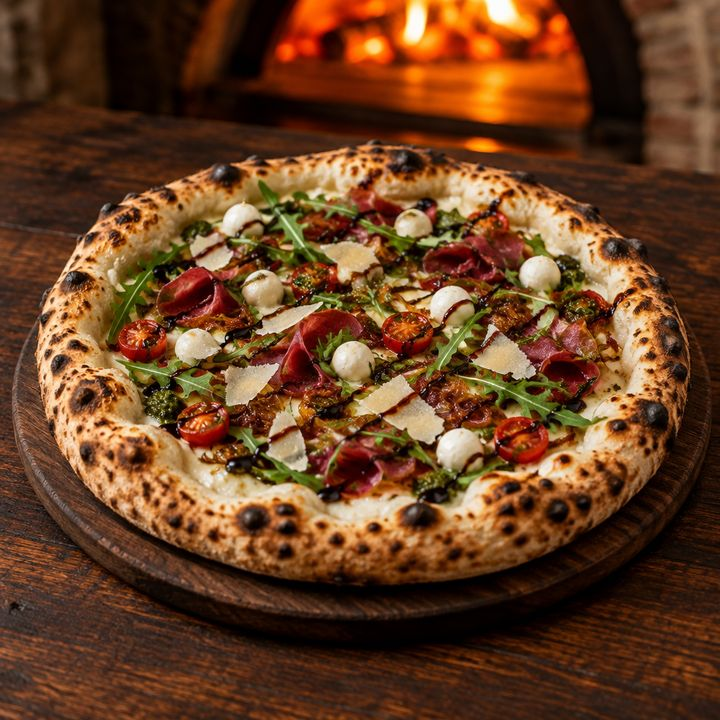
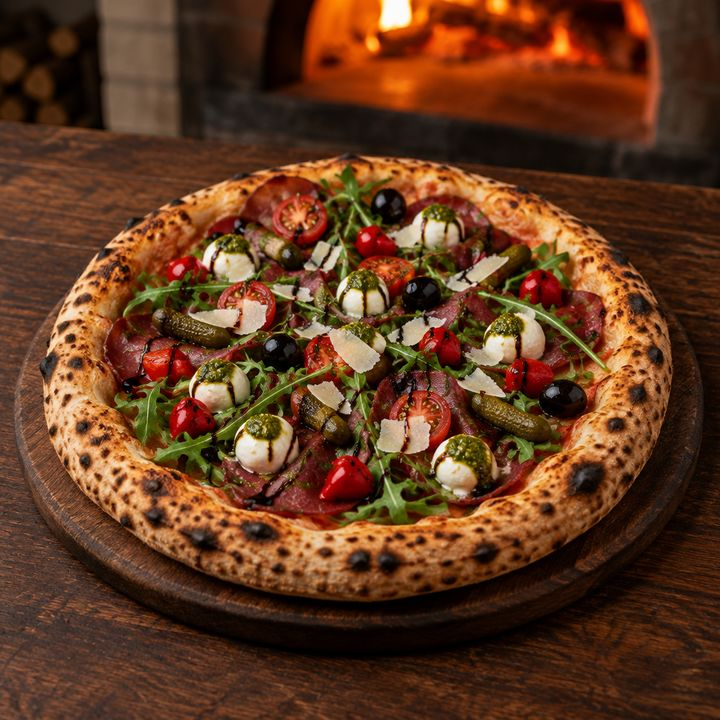
Arzata : Bresaola fidèle à la vraie recette
Claude-Session: https://claude.ai/code/session_01KDE5kQyViZ7WNt4evbjnNg

diff --git a/entreprise/vente/demos/arzata/site/data.js b/entreprise/vente/demos/arzata/site/data.js
@@ -35,7 +35,7 @@
    ['Pizza Crispy', 'Crème, mozzarella, poulet croustillant, sauce fromagère, tomates cerises, olives', [1090, 2590], []],
    ['Saumon', 'Crème, mozzarella, saumon fumé, boursin, oignons confits, citron, olives, roquette', [1190, 2690], ['mer']],
    ['Océane', 'Crème, mozzarella, crevettes, saumon fumé, persillade, citron, olives', [1290, 2890], ['mer']],
-   ['Bresaola', 'Crème, mozzarella, bresaola, roquette, tomates cerises, parmesan, perles de mozzarella, pesto, crème balsamique, oignons caramélisés', [1990, 3190], ['chef']],
+   ['Bresaola', 'Mozzarella, bresaola, roquette, tomates cerises, cornichons, olives noires, petits piments doux, perles de mozzarella au pesto, parmesan, crème balsamique', [1990, 3190], ['chef']],
    ['Pêcheur', 'Crème, mozzarella, calamars, crevettes, moules, pesto, citron, olives', [1990, 3190], ['mer', 'chef']]
   ].forEach(function (x, i) { P.push({ id: 'c' + i, cat: 'Base crème', nom: x[0], desc: x[1], img: 'img3d/c' + i + '.jpg', tailles: T(x[2]), extra: SUPP, tags: x[3], moitie: 'creme' }); });
   [['Poulet', 'Poulet, pommes de terre, poivrons, fromage fondant', 600, 0, []], ['Viande', 'Viande hachée, pommes de terre, poivrons, oignons, fromage fondant', 650, 1, []],

diff --git a/entreprise/SUIVI.md b/entreprise/SUIVI.md
@@ -126,3 +126,4 @@ Solde au 2026-10-14 : **3,39 crédits** (après Arzata : 35 images ≈ 9,25, ima
 - **2026-10-14** : prix Plateforme aligné partout à **dès 300 000 DA** + « service client 24h/24, 7j/7 (12 mois) » : site `site-prod` et `site-dzign` (carte FR/AR, calculateur, données Google), `OFFRE.md`, `VENTE.md`, `campagne/posts.html`. Nouveau paquet complet `site-dzign-vite.zip` (27 fichiers) **à remettre en ligne par l'utilisateur·rice** sur Hostinger.
 - **2026-10-14 (soir)** : I'm Starving en pause (pas de WhatsApp, pas de réponse). Nouveau prospect **Arzata Pizza** (Dar El Beïda, 7,8 K abonnés). Plateforme complète construite → `vente/demos/arzata/` : 35 visuels IA sans porc (≈ 9,25 crédits), design trattoria vert/crème/rouge, carte réelle 38 recettes, **moitié-moitié**, **zones de livraison** avec frais et livraison offerte, **commande programmée**, **suivi au four** avec minuteur, filtres, braises animées, FR/AR ; espace gérant adapté (« Enfourner », minuteur de cuisson, pizzas au four, éditeur de zones). 0 erreur en tests, axe 0 défaut sur 15 écrans. Démo publiée (privée) : https://claude.ai/artifact/NRZnTu1KCMWGaDpb2eMwte. Vidéos : `demo-arzata.mp4` (38 s) et `lancement-arzata.mp4` (20 s), avec plan cinématique IA du four (Cinema Studio, 5,5 crédits) + musique et sons synthétisés. Dossier PDF + devis 240 000 DA. Reste 3,39 crédits.
 - **2026-10-14 (soir, suite)** : stories Arzata exploitées : catégorie **« Du moment »** (Figue & noisettes, Magret & foie gras, prix provisoires à confirmer) en signatures avec la Burrata, Gruyère corrigée d'après leur photo, **logo badge** refait comme le vrai. 2 visuels (0,5 crédit, reste ≈ 2,9). Démo republiée, dossier PDF passé à 40 recettes. Les vidéos disent encore « 38 recettes » (détail, à refaire seulement si besoin).
+- **2026-10-14 (soir, suite)** : Bresaola refaite d'après leur story (cornichons, olives, petits piments, perles de mozzarella au pesto), 0,25 crédit, reste ≈ 2,6. Napolitaine déjà conforme.
